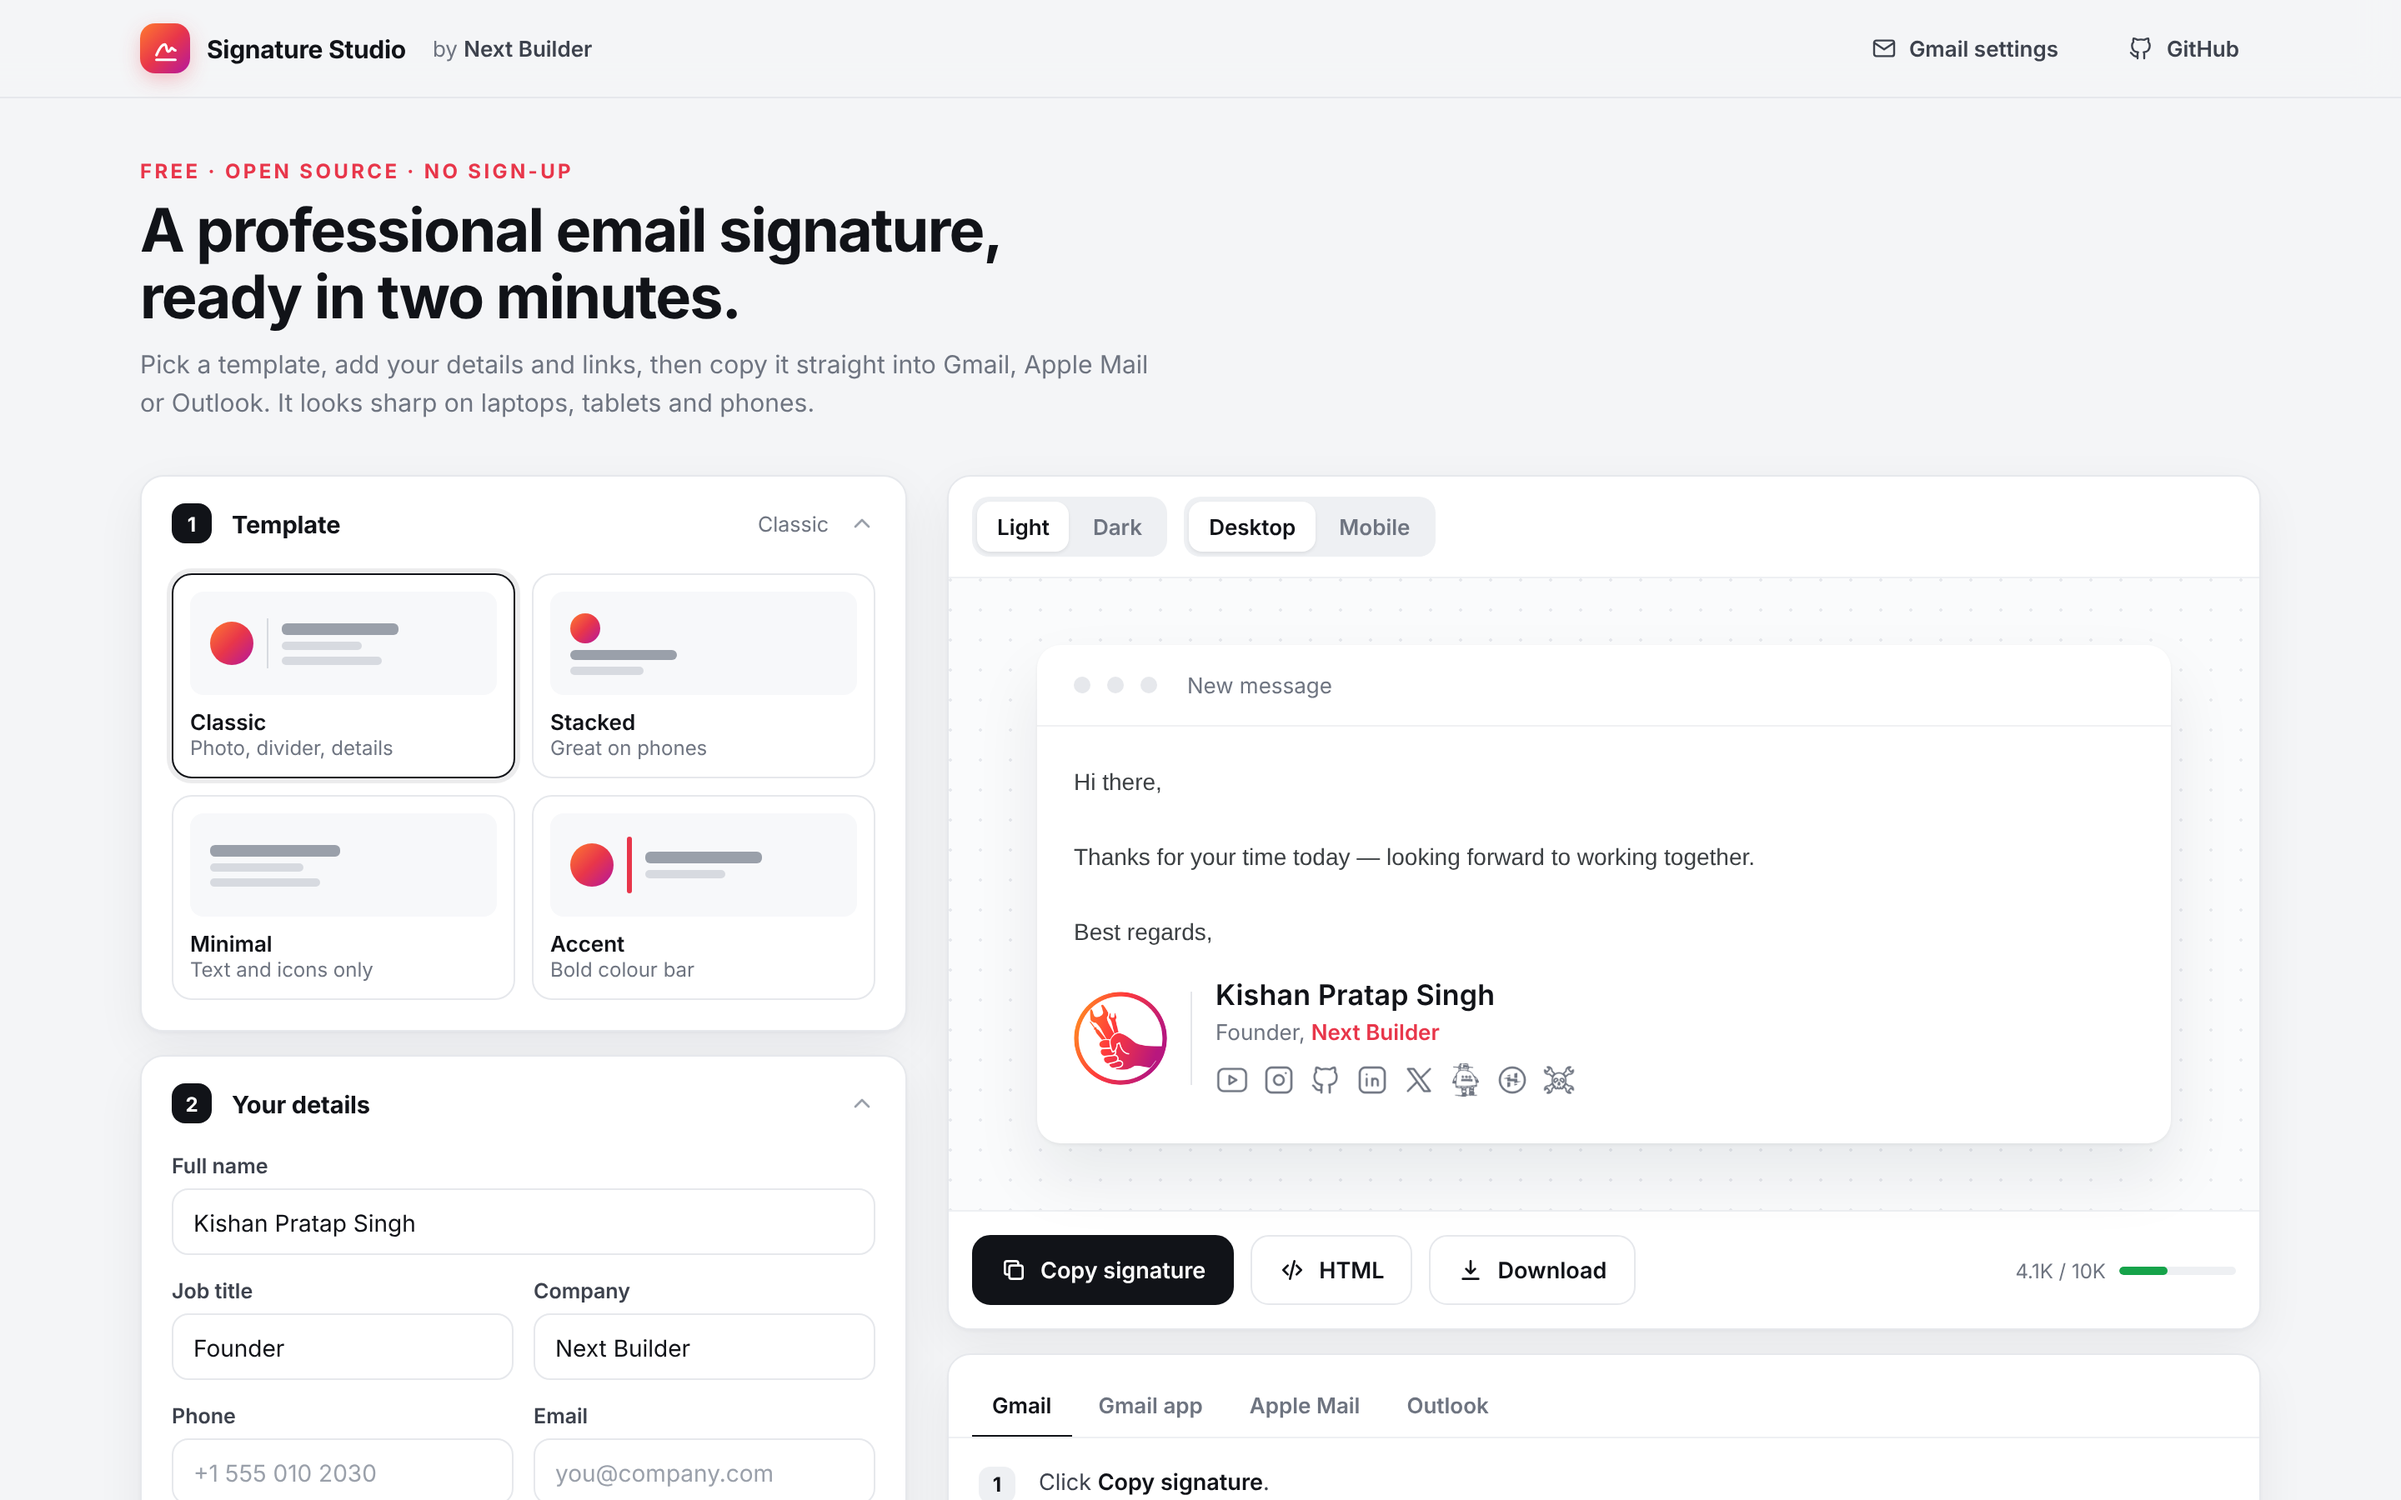
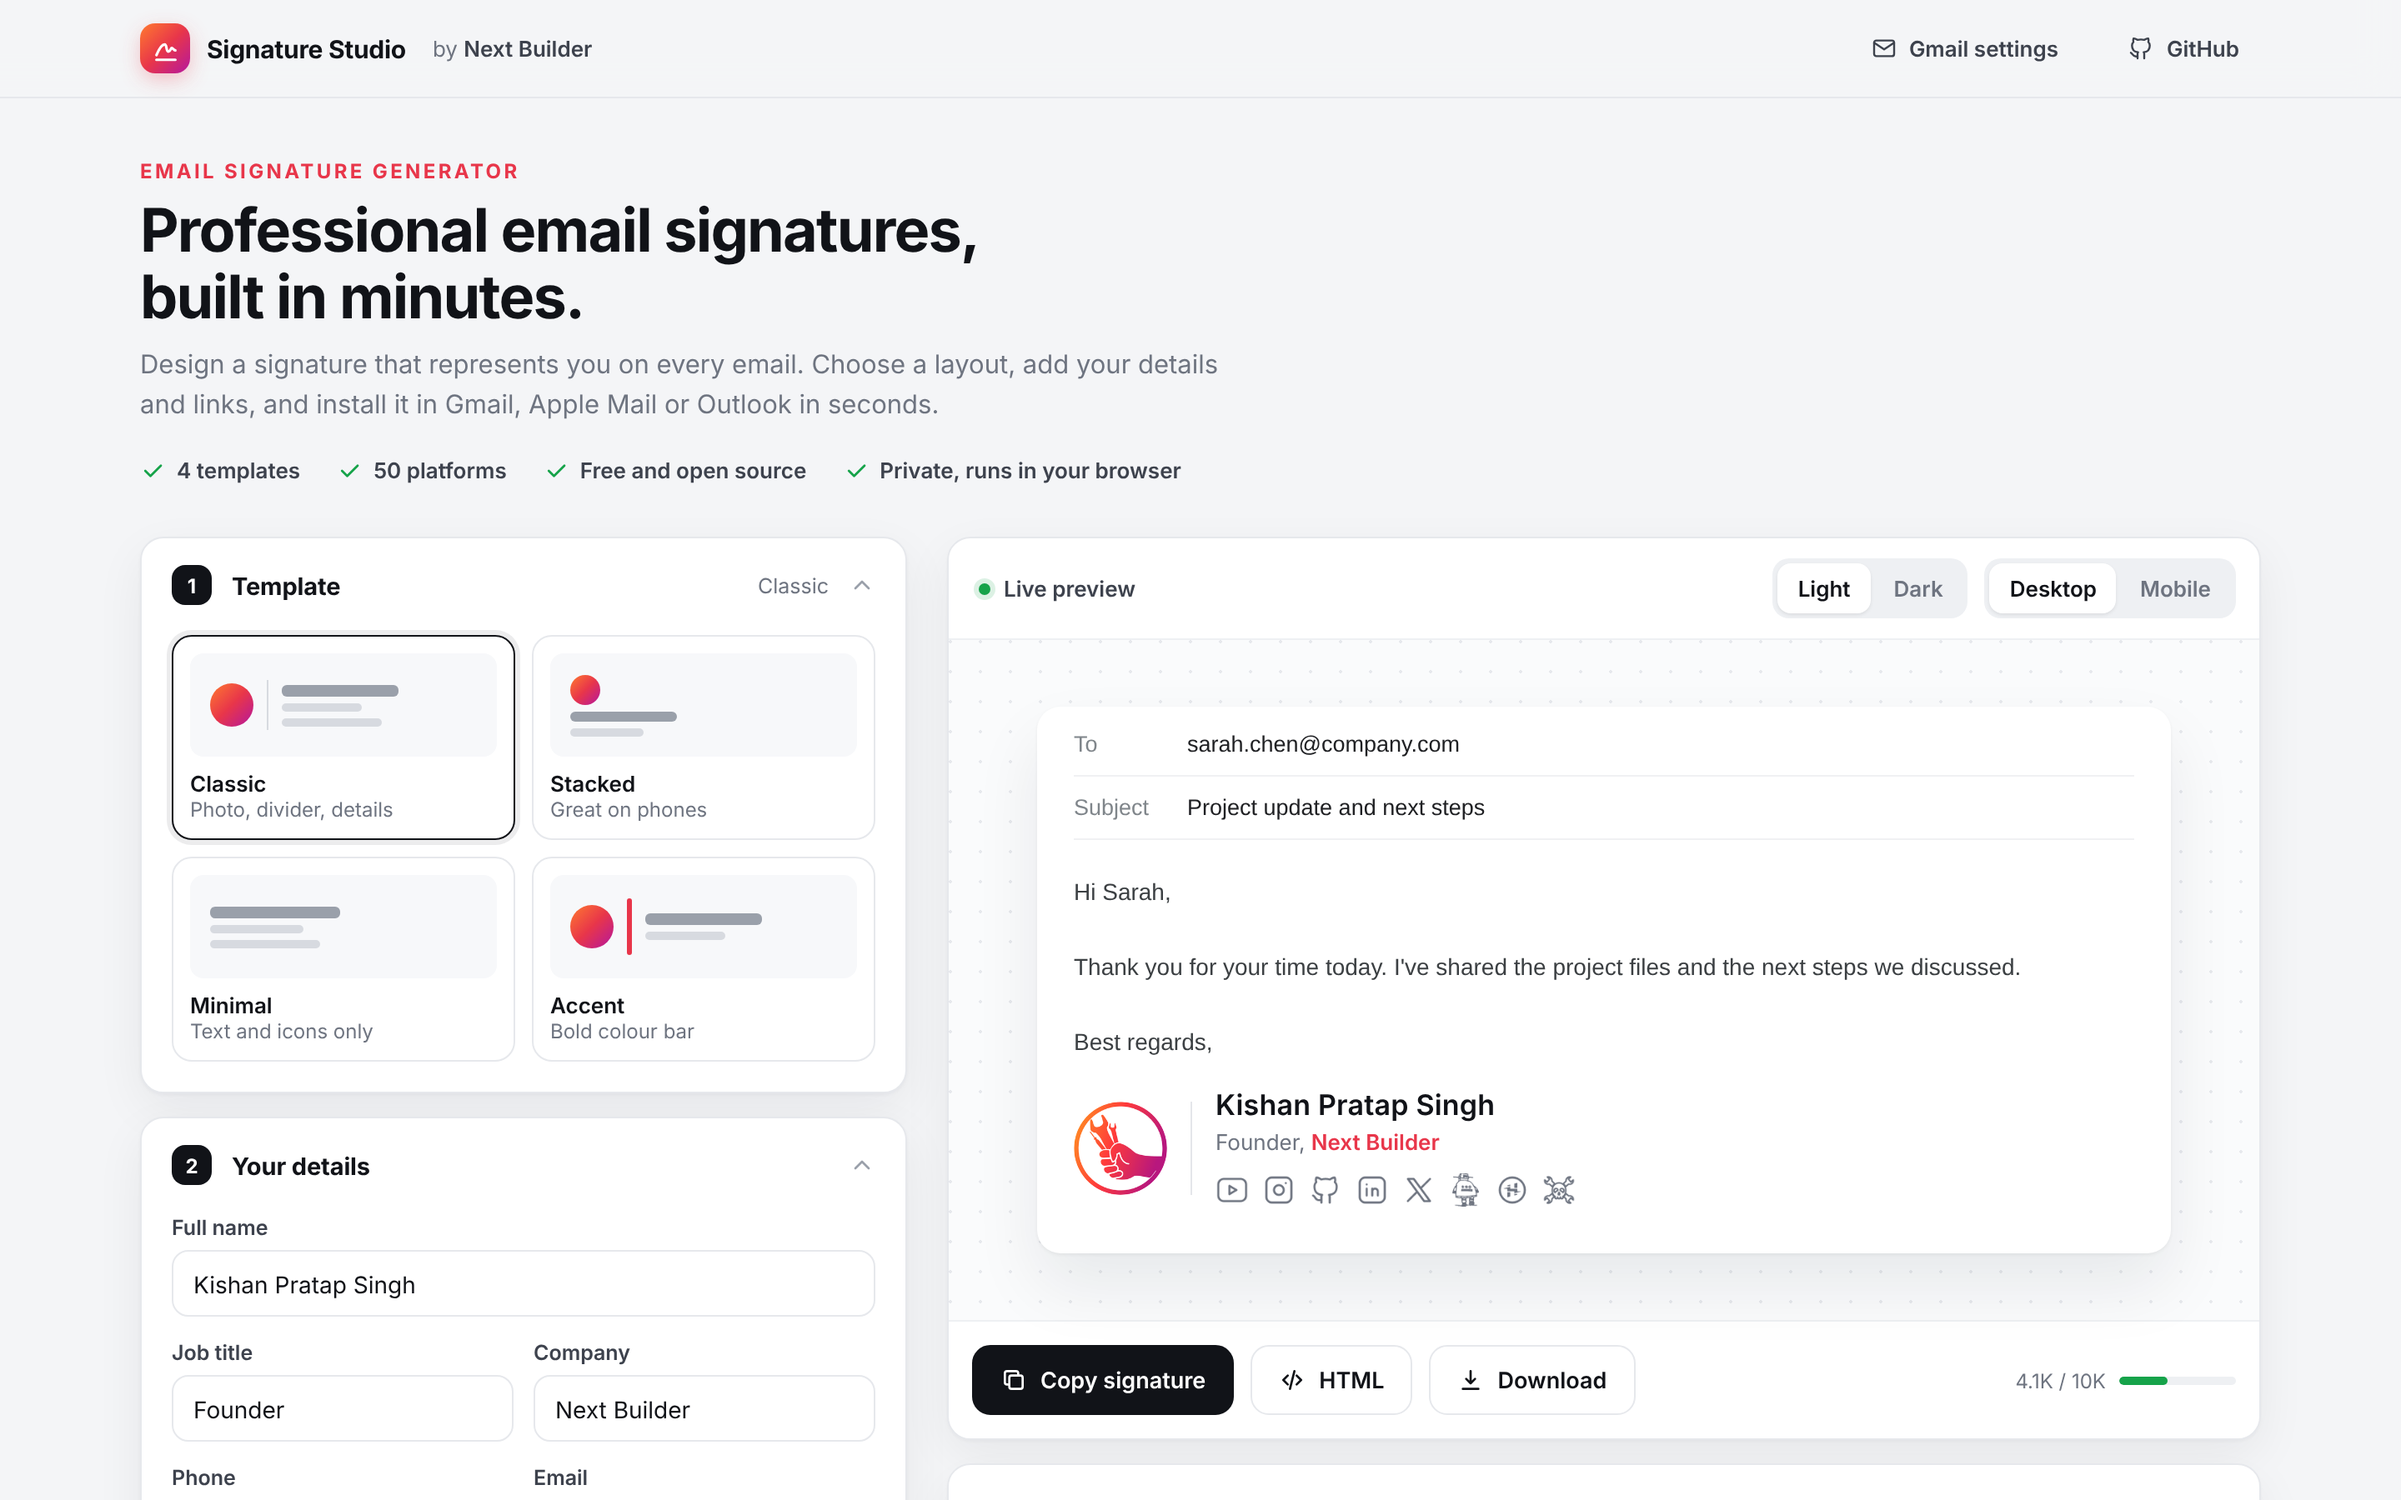
Refine hero copy and use a compose-style email preview

diff --git a/app/studio.css b/app/studio.css
@@ -37,7 +37,12 @@ a { color: inherit; }
 .hero { max-width: 1320px; margin: 0 auto; padding: 36px 24px 8px; }
 .eyebrow { font-size: 12px; letter-spacing: .14em; text-transform: uppercase; color: var(--accent); font-weight: 650; }
 .hero h1 { font-size: clamp(26px, 3.2vw, 36px); line-height: 1.12; letter-spacing: -.025em; margin: 8px 0 8px; font-weight: 700; }
-.hero p { color: var(--muted); font-size: 15px; margin: 0; max-width: 620px; line-height: 1.55; }
+.hero p { color: var(--muted); font-size: 15.5px; margin: 0; max-width: 660px; line-height: 1.6; }
+.facts { list-style: none; margin: 18px 0 0; padding: 0; display: flex; flex-wrap: wrap; gap: 8px 22px; }
+.facts li { display: inline-flex; align-items: center; gap: 7px; font-size: 13px; font-weight: 550; color: var(--ink-2); }
+.facts svg { width: 15px; height: 15px; color: #16A34A; }
+.live { display: inline-flex; align-items: center; gap: 8px; font-size: 13px; font-weight: 600; color: var(--ink-2); padding-left: 4px; }
+.live i { width: 7px; height: 7px; border-radius: 50%; background: #16A34A; box-shadow: 0 0 0 3px rgba(22, 163, 74, .15); }
 
 .layout { max-width: 1320px; margin: 0 auto; padding: 24px; display: grid; grid-template-columns: minmax(360px, 460px) 1fr; gap: 24px; align-items: start; }
 
@@ -138,12 +143,12 @@ a { color: inherit; }
 .mail { width: 100%; max-width: 680px; background: #fff; border-radius: 14px; box-shadow: 0 1px 2px rgba(0, 0, 0, .05), 0 20px 40px rgba(16, 24, 40, .08); overflow: hidden; transition: max-width .3s, background .25s; }
 .stage.mobile .mail { max-width: 375px; }
 .stage.dark .mail { background: #202124; box-shadow: 0 20px 40px rgba(0, 0, 0, .4); }
-.mail-head { padding: 16px 22px; border-bottom: 1px solid #F0F1F3; display: flex; gap: 10px; align-items: center; }
-.stage.dark .mail-head { border-color: #2E3034; }
-.mail-dot { width: 10px; height: 10px; border-radius: 50%; background: #E6E8EC; }
-.stage.dark .mail-dot { background: #3A3C41; }
-.mail-subj { margin-left: 8px; font-size: 13px; color: var(--muted); }
-.mail-body { padding: 22px 22px 28px; font-size: 14px; line-height: 1.6; color: #3C4043; font-family: Arial, Helvetica, sans-serif; }
+.mail-head { padding: 4px 22px 0; }
+.mail-row { display: flex; gap: 14px; align-items: center; padding: 11px 0; border-bottom: 1px solid #F0F1F3; font-size: 13.5px; color: #202124; font-family: Arial, Helvetica, sans-serif; white-space: nowrap; overflow: hidden; text-overflow: ellipsis; }
+.mail-row span { width: 54px; flex: none; color: #80868B; }
+.stage.dark .mail-row { border-color: #2E3034; color: #E8EAED; }
+.stage.dark .mail-row span { color: #9AA0A6; }
+.mail-body { padding: 20px 22px 28px; font-size: 14px; line-height: 1.6; color: #3C4043; font-family: Arial, Helvetica, sans-serif; }
 .stage.dark .mail-body { color: #C9CBCF; }
 .mail-sig { margin-top: 18px; overflow-x: auto; }
 .stage.dark .mail-sig [data-ink] { color: #E8EAED !important; }
@@ -190,5 +195,7 @@ kbd { font-family: ui-monospace, SFMono-Regular, Menlo, monospace; font-size: 11
   .brand-by, .top-link span { display: none; }
   .stage { padding: 20px 10px; }
   .hero h1 br { display: none; }
+  .live { display: none; }
+  .facts { gap: 8px 16px; }
   .meter { margin-left: 0; }
 }

diff --git a/index.html b/index.html
@@ -32,9 +32,15 @@
 </header>
 
 <section class="hero">
-  <div class="eyebrow">Free · Open source · No sign-up</div>
-  <h1>A professional email signature,<br>ready in two minutes.</h1>
-  <p>Pick a template, add your details and links, then copy it straight into Gmail, Apple Mail or Outlook. It looks sharp on laptops, tablets and phones.</p>
+  <div class="eyebrow">Email signature generator</div>
+  <h1>Professional email signatures, <br>built in minutes.</h1>
+  <p>Design a signature that represents you on every email. Choose a layout, add your details and links, and install it in Gmail, Apple Mail or Outlook in seconds.</p>
+  <ul class="facts">
+    <li><svg viewBox="0 0 24 24" fill="none" stroke="currentColor" stroke-width="2.2" stroke-linecap="round" stroke-linejoin="round"><path d="m5 12 5 5L20 7"/></svg>4 templates</li>
+    <li><svg viewBox="0 0 24 24" fill="none" stroke="currentColor" stroke-width="2.2" stroke-linecap="round" stroke-linejoin="round"><path d="m5 12 5 5L20 7"/></svg>50 platforms</li>
+    <li><svg viewBox="0 0 24 24" fill="none" stroke="currentColor" stroke-width="2.2" stroke-linecap="round" stroke-linejoin="round"><path d="m5 12 5 5L20 7"/></svg>Free and open source</li>
+    <li><svg viewBox="0 0 24 24" fill="none" stroke="currentColor" stroke-width="2.2" stroke-linecap="round" stroke-linejoin="round"><path d="m5 12 5 5L20 7"/></svg>Private, runs in your browser</li>
+  </ul>
 </section>
 
 <main class="layout">
@@ -119,14 +125,18 @@
   <aside class="preview">
     <div class="card stage-card">
       <div class="stage-bar">
+        <span class="live"><i></i>Live preview</span>
+        <span class="spacer"></span>
         <div class="seg" id="themeSeg"><button data-v="light" class="on">Light</button><button data-v="dark">Dark</button></div>
         <div class="seg" id="deviceSeg"><button data-v="desktop" class="on">Desktop</button><button data-v="mobile">Mobile</button></div>
-        <span class="spacer"></span>
       </div>
       <div class="stage" id="stage">
         <div class="mail">
-          <div class="mail-head"><span class="mail-dot"></span><span class="mail-dot"></span><span class="mail-dot"></span><span class="mail-subj">New message</span></div>
-          <div class="mail-body">Hi there,<br><br>Thanks for your time today — looking forward to working together.<br><br>Best regards,
+          <div class="mail-head">
+            <div class="mail-row"><span>To</span>sarah.chen@company.com</div>
+            <div class="mail-row"><span>Subject</span>Project update and next steps</div>
+          </div>
+          <div class="mail-body">Hi Sarah,<br><br>Thank you for your time today. I've shared the project files and the next steps we discussed.<br><br>Best regards,
             <div class="mail-sig" id="sig"></div>
           </div>
         </div>
